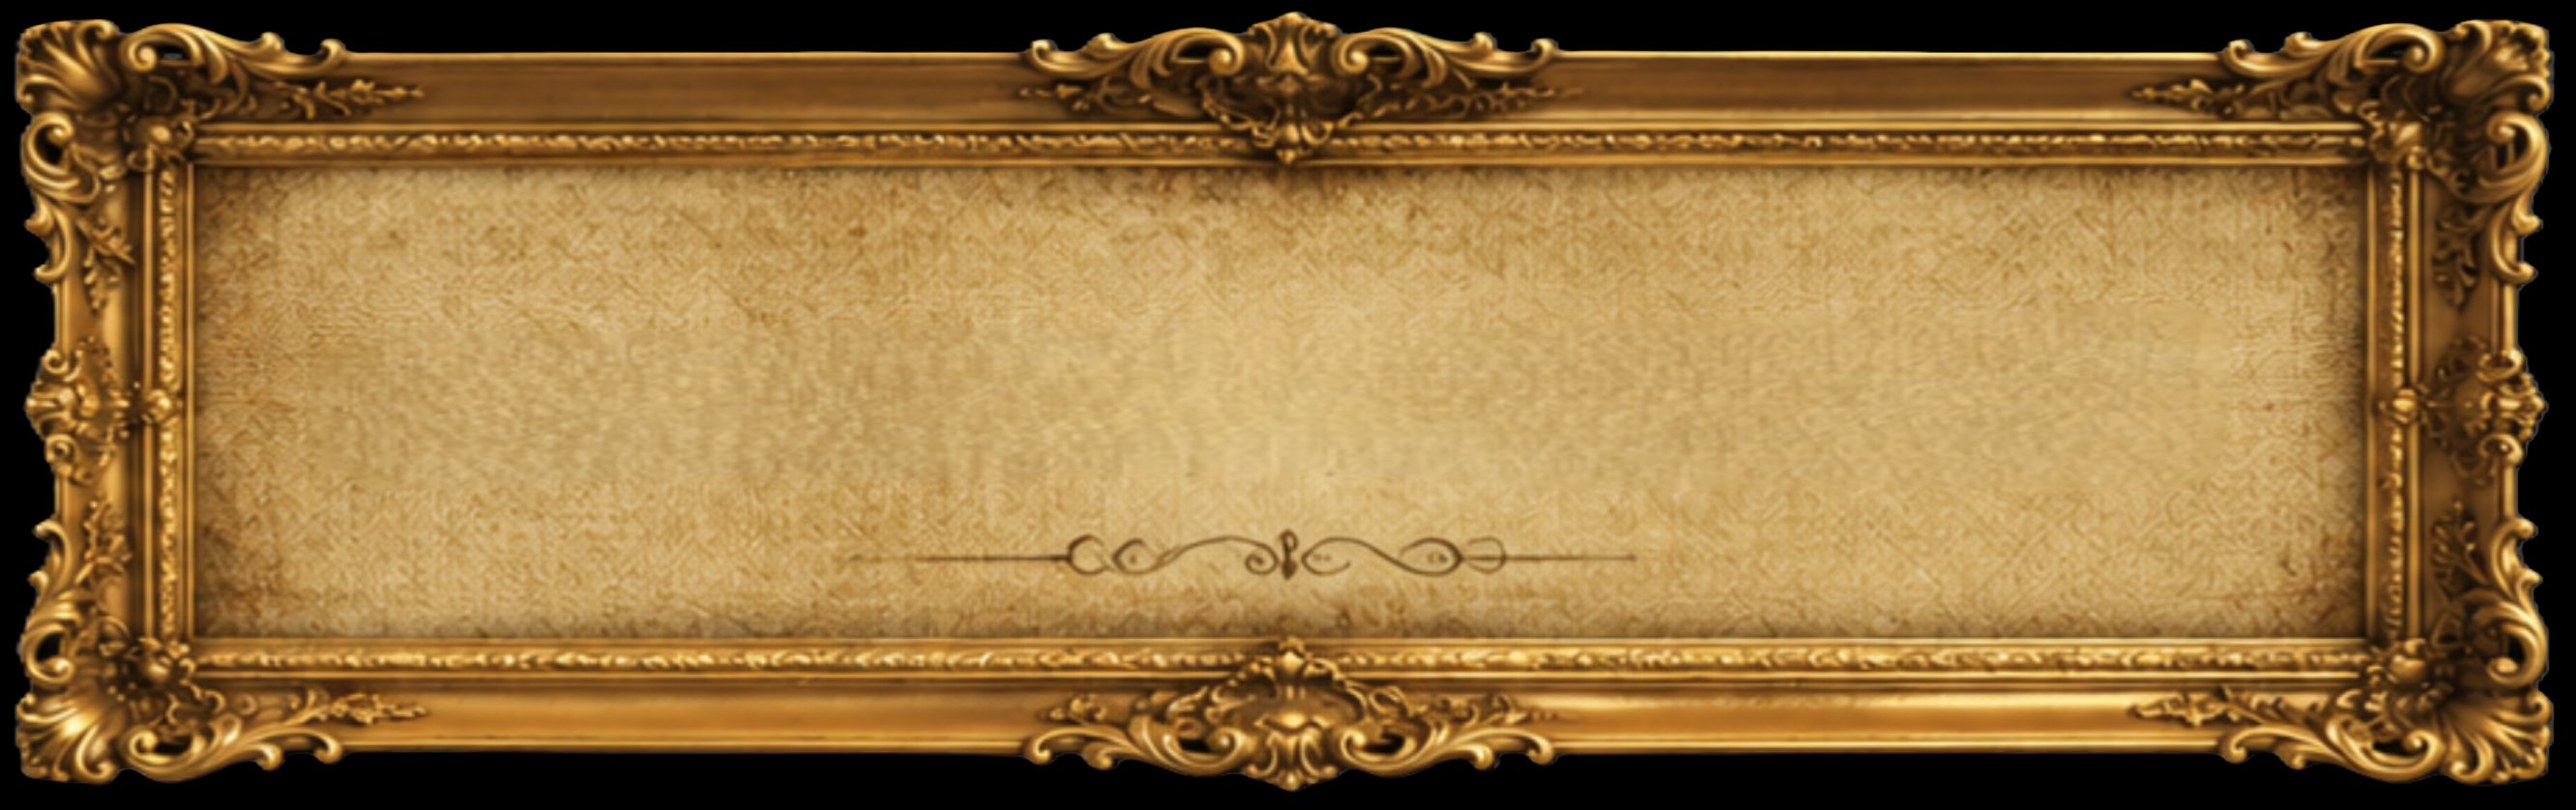
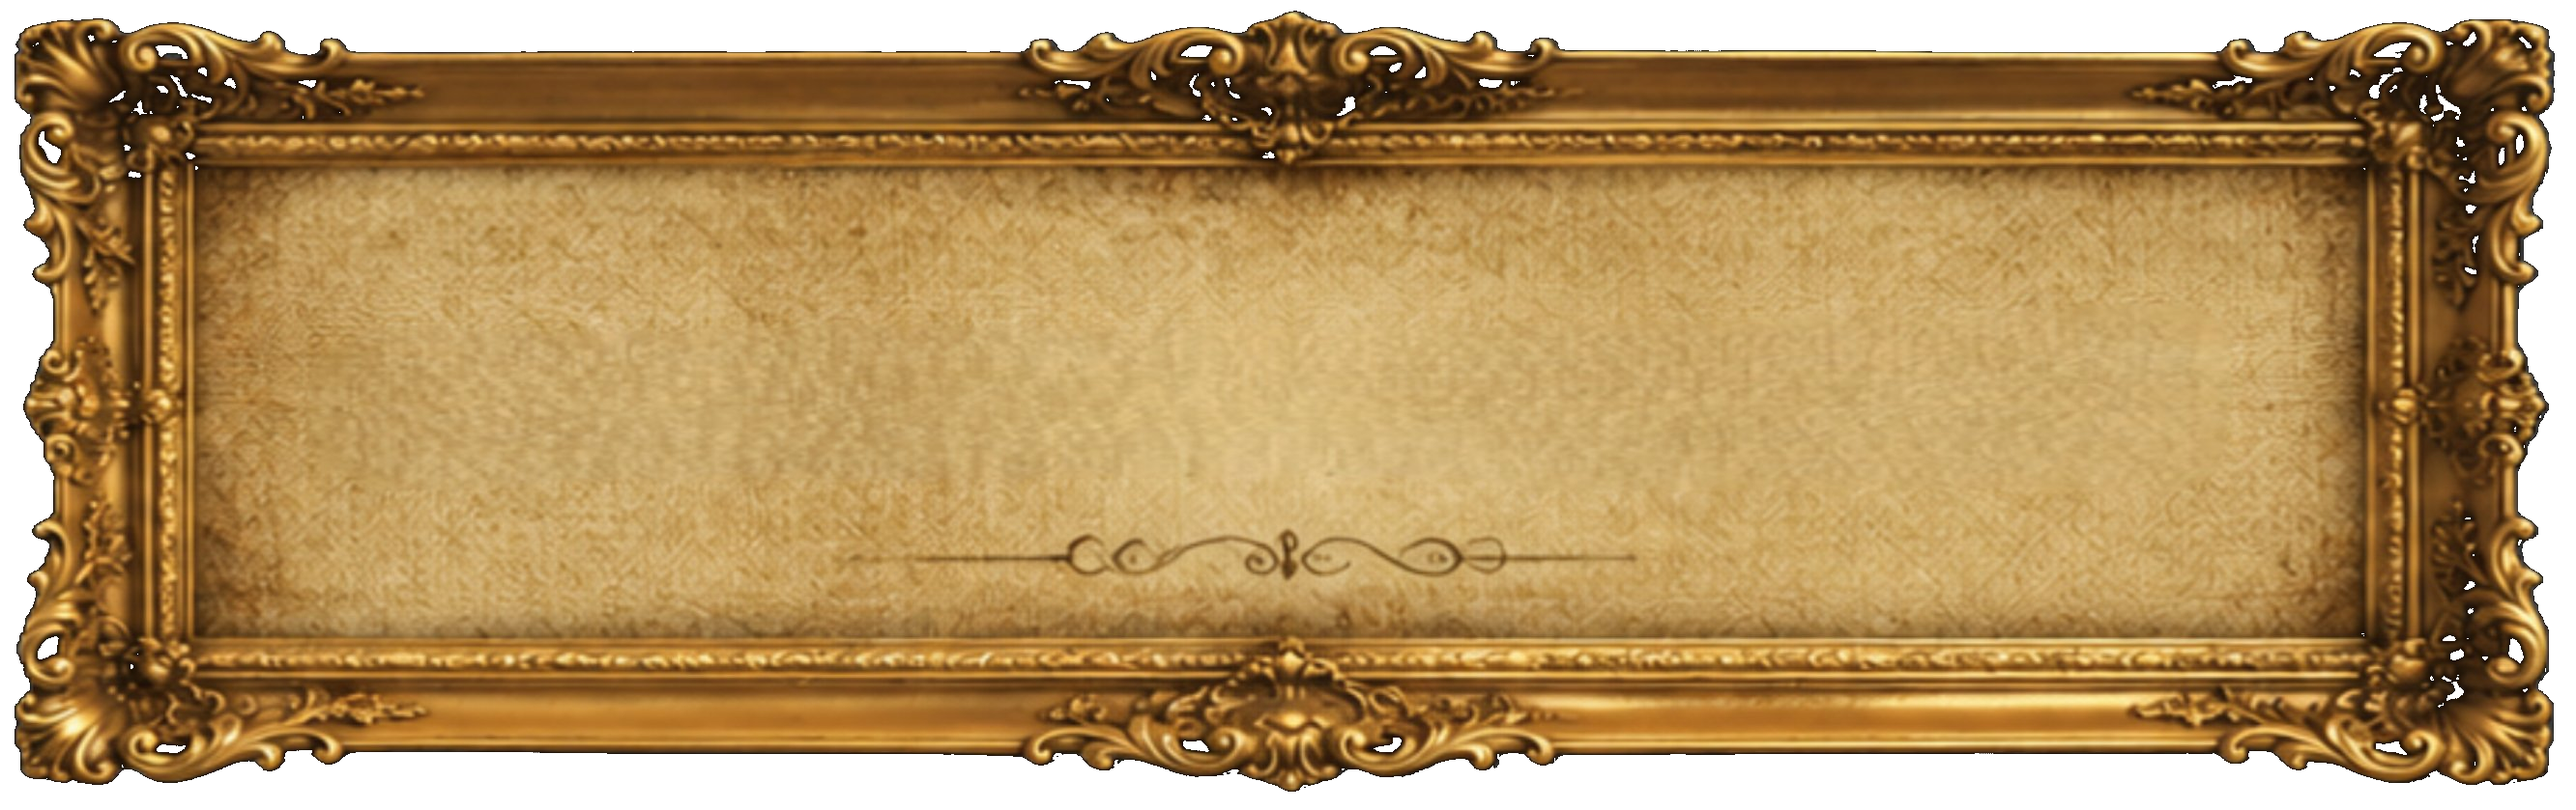
fix: CTA sizing, text position, transparent frame

Changed region(s): [[0.0, 0.0, 1.0, 1.0], [0.0623, 0.093, 0.0934, 0.124]]

diff --git a/src/pages/GCSDA.tsx b/src/pages/GCSDA.tsx
@@ -294,50 +294,30 @@ export default function GCSDA() {
         </section>
 
         {/* FINAL REGISTRATION CTA */}
-        <section className="py-40 border-t border-white/5 text-center bg-black -mx-6 md:-mx-24 px-6 md:px-24">
-          <div className="max-w-5xl mx-auto flex flex-col items-center gap-12">
+        <section className="py-32 border-t border-white/5 text-center bg-black -mx-6 md:-mx-24 px-6 md:px-24">
+          <div className="max-w-4xl mx-auto flex flex-col items-center gap-10">
 
             {/* 大油畫框 - 加入治理生態圈 */}
-            <div style={{ position: "relative", display: "inline-block", width: "100%", maxWidth: "960px" }}>
-              <img
-                src="/images/gcsda_002.png"
-                alt=""
-                style={{ width: "100%", height: "auto", display: "block" }}
-              />
-              {/* 文字疊加在框內 */}
+            <div style={{ position: "relative", display: "inline-block", width: "100%", maxWidth: "780px" }}>
+              <img src="/images/gcsda_002.png" alt="" style={{ width: "100%", height: "auto", display: "block" }} />
               <div style={{
-                position: "absolute",
-                top: "50%", left: "50%",
-                transform: "translate(-50%, -65%)",
-                width: "68%",
+                position: "absolute", top: "0", left: "0", right: "0", bottom: "0",
+                display: "flex", flexDirection: "column", alignItems: "center", justifyContent: "center",
+                padding: "12% 15% 18%",
                 textAlign: "center",
               }}>
                 <h2 style={{
-                  color: "#2a1a05",
-                  fontSize: "clamp(28px, 5vw, 62px)",
-                  fontWeight: 700,
-                  letterSpacing: "0.2em",
-                  fontFamily: "serif",
-                  textShadow: "0 1px 3px rgba(0,0,0,0.3)",
-                  margin: "0 0 clamp(8px,1.5vw,16px) 0",
-                  lineHeight: 1.2,
-                  whiteSpace: "nowrap",
+                  color: "#2a1a05", fontSize: "clamp(22px, 4vw, 52px)", fontWeight: 700,
+                  letterSpacing: "0.2em", fontFamily: "serif",
+                  textShadow: "0 1px 3px rgba(0,0,0,0.2)",
+                  margin: "0 0 clamp(6px,1vw,12px) 0", lineHeight: 1.2, whiteSpace: "nowrap",
                 }}>
                   加 入 治 理 生 態 圈
                 </h2>
-                <div style={{
-                  width: "60%", height: "1px",
-                  background: "rgba(60,30,5,0.3)",
-                  margin: "0 auto clamp(8px,1.5vw,14px)",
-                }}/>
+                <div style={{ width: "50%", height: "1px", background: "rgba(60,30,5,0.3)", margin: "0 auto clamp(6px,1vw,12px)" }}/>
                 <p style={{
-                  color: "#3a2005",
-                  fontSize: "clamp(12px, 1.4vw, 18px)",
-                  fontFamily: "serif",
-                  letterSpacing: "0.05em",
-                  fontWeight: 400,
-                  margin: 0,
-                  lineHeight: 1.6,
+                  color: "#3a2005", fontSize: "clamp(11px, 1.2vw, 16px)",
+                  fontFamily: "serif", letterSpacing: "0.05em", fontWeight: 400, margin: 0, lineHeight: 1.6,
                 }}>
                   與產學精英共同協作，引導企業建立穩健的策略治理基盤。
                 </p>
@@ -349,29 +329,23 @@ export default function GCSDA() {
               href="https://line.me/R/ti/p/@387nbnjs"
               target="_blank"
               rel="noopener noreferrer"
-              style={{ textDecoration: "none", display: "inline-block", position: "relative", maxWidth: "560px", width: "58%" }}
+              style={{ textDecoration: "none", display: "inline-block", position: "relative", maxWidth: "460px", width: "52%" }}
             >
               <img
                 src="/images/gcsda_003.png"
                 alt="申請入會諮詢"
                 style={{ width: "100%", height: "auto", display: "block", transition: "opacity 0.3s" }}
-                onMouseEnter={e => { (e.currentTarget as HTMLImageElement).style.opacity = "0.85"; }}
+                onMouseEnter={e => { (e.currentTarget as HTMLImageElement).style.opacity = "0.82"; }}
                 onMouseLeave={e => { (e.currentTarget as HTMLImageElement).style.opacity = "1"; }}
               />
               <div style={{
-                position: "absolute",
-                top: "50%", left: "50%",
-                transform: "translate(-50%, -50%)",
-                pointerEvents: "none",
+                position: "absolute", top: "50%", left: "50%",
+                transform: "translate(-50%, -50%)", pointerEvents: "none",
               }}>
                 <span style={{
-                  color: "#2a1a05",
-                  fontSize: "clamp(14px, 1.8vw, 22px)",
-                  fontFamily: "serif",
-                  fontWeight: 700,
-                  letterSpacing: "0.4em",
-                  whiteSpace: "nowrap",
-                  textShadow: "0 1px 2px rgba(0,0,0,0.2)",
+                  color: "#2a1a05", fontSize: "clamp(13px, 1.5vw, 20px)",
+                  fontFamily: "serif", fontWeight: 700, letterSpacing: "0.4em",
+                  whiteSpace: "nowrap", textShadow: "0 1px 2px rgba(0,0,0,0.2)",
                 }}>
                   ❖ 申 請 入 會 諮 詢 ❖
                 </span>
